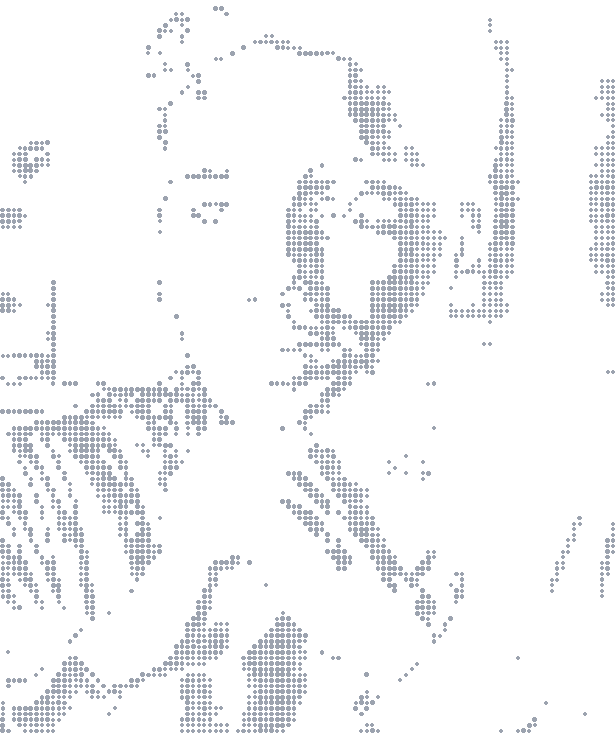
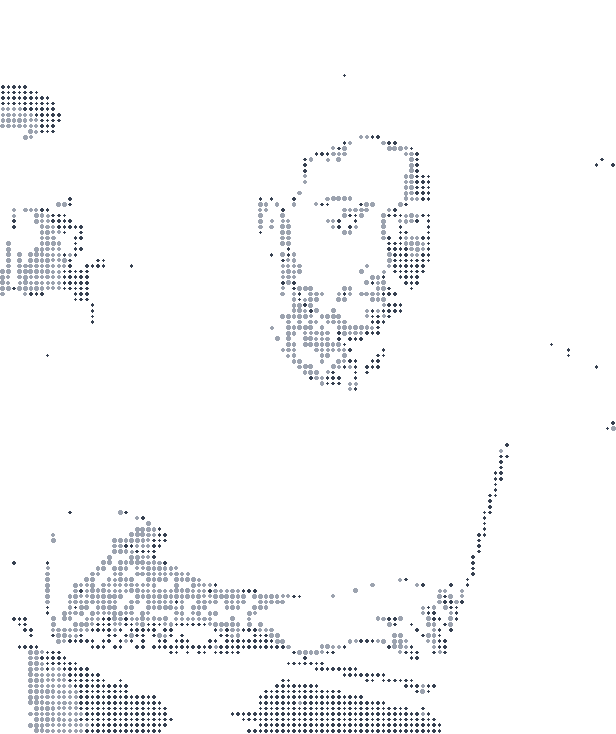
feat(portrait): the portrait loop clip, with a poster from its first frame (#15)
## What

- `public/portrait/portrait-loop.webm` (VP9, 16,558 bytes) and
`portrait-loop.mp4` (H.264, 13,599 bytes): the owner's loop clip,
encoded with `scripts/encode-portrait.sh` — grayscale, 220×262, 15 fps,
60 frames, no audio. No greeting clip yet; the renderer plays the loop
only.
- New poster (`src/assets/portrait/portrait.json`) and no-JS fallback
(`public/portrait/portrait-fallback.webp`, 5,922 bytes) from the loop's
first frame with the same crop, so the poster and the first video frame
match.
- `src/lib/portrait/config.ts`: tone `equalize: false, gamma: 1.4,
floor: 3`; face centre `0.59, 0.35`. The fallback image's
`object-position` follows the face.
- The hero caption drops "placeholder" by itself now that the clip
exists (`portrait.mp4 · dots`).
- `scripts/check-portrait.ts`: with the real clips in the build, the
default visit runs the video checks (requested after load, dots change,
pauses off-screen, no long task at CPU ×8); the poster-exact pointer
check runs under Save-Data, where no clip plays.

## Choices

- **Crop** `288,2,600,714` of the 1280×720 source: inside the square
picture (content x 280–1000, no pillarbox bars), at the poster's 110:131
aspect, keeping the head, beard and both hands with margin.
- **Tone**: autocontrast, gamma 1.4, floor 3. Equalize (the previous
setting) flattened the face into one bright patch in this darker scene;
without it eyes, nose, beard and mouth read in dots. No accessory in any
frame, so nothing is erased.
[…]

diff --git a/scripts/check-portrait.ts b/scripts/check-portrait.ts
@@ -8,6 +8,9 @@
 // Checks, EN and PT, one PASS or FAIL line each on stdout, exit 1 on any failure:
 //   - the canvas is shown and has dots drawn on it; the page scrolls no wider than the viewport (375 px)
 //   - no video is requested when the clips are absent, with reduced motion, or with Save-Data
+//   - when the build has the real clips (dist/portrait/portrait-loop.*), the default visit requests one after
+//     load, the dots change with it, it pauses off-screen, and no long task happens at CPU x8 (the same
+//     checks as the synthetic clips); the pointer check then runs with Save-Data, the poster-only path
 //   - no console error and no page error
 //   - without JavaScript the fallback image loads and the canvas takes no room
 //   - the pointer pushes dots away, and once it leaves the canvas shows the poster again, pixel for pixel
@@ -37,6 +40,8 @@ const flag = (name: string, fallback: string) => {
 const DIST = resolve(flag("--dist", "dist"));
 const JOBS = Math.max(1, Number(flag("--jobs", "4")) || 4);
 const WITH_CLIPS = argv.includes("--with-synthetic-clips");
+// The real clips, when the build carries them (scripts/encode-portrait.sh writes them to public/portrait/).
+const REAL_CLIPS = ["webm", "mp4"].some((x) => existsSync(join(DIST, "portrait", `portrait-loop.${x}`)));
 if (!existsSync(join(DIST, "index.html"))) {
   console.error(`check-portrait: ${DIST}/index.html not found; run npm run build first`);
   process.exit(2);
@@ -128,8 +133,8 @@ async function poster(browser: Browser, base: string, path: string, label: strin
   await s.close();
 }
 
-async function pointer(browser: Browser, base: string, path: string, label: string) {
-  const s = await open(browser, base + path);
+async function pointer(browser: Browser, base: string, path: string, label: string, o: Parameters<typeof open>[2] = {}) {
+  const s = await open(browser, base + path, o);
   await sleep(1500);
   const rest = await drawn(s.page);
   const face = await s.page.evaluate(() => {
@@ -224,12 +229,17 @@ try {
   servers.push(server);
   const tasks: Array<() => Promise<void>> = [];
   for (const [path, label] of [["/", "EN"], ["/pt/", "PT"]] as const) {
-    tasks.push(() => poster(browser, base, path, label, {}, "default"));
+    if (REAL_CLIPS) {
+      tasks.push(() => withClips(browser, base, path, `${label} real`));
+      tasks.push(() => clipTasks(browser, base, path, `${label} real`));
+    } else tasks.push(() => poster(browser, base, path, label, {}, "default"));
     tasks.push(() => poster(browser, base, path, label, { reducedMotion: "reduce" }, "reduced motion"));
     tasks.push(() => poster(browser, base, path, label, { saveData: true }, "Save-Data"));
     tasks.push(() => noJs(browser, base, path, label));
     tasks.push(() => narrow(browser, base, path, label));
-    tasks.push(() => pointer(browser, base, path, label));
+    // With the real clips the default visit plays the loop, so the poster-exact check runs where no clip
+    // plays and the pointer still moves dots: Save-Data (gating.ts).
+    tasks.push(() => (REAL_CLIPS ? pointer(browser, base, path, `${label} Save-Data`, { saveData: true }) : pointer(browser, base, path, label)));
   }
   if (WITH_CLIPS) {
     // Sequential by need: the clips must exist before the build that finds them, and the build before the checks.

diff --git a/src/lib/portrait/config.ts b/src/lib/portrait/config.ts
@@ -1,11 +1,12 @@
-// The site's portrait settings. The tone values are the ones that made src/assets/portrait/portrait.json
-// (personal-brand state.md, chosen poster parameters): portrait.py --crop 200,40,640,760 --cols 110
-// --erase 364,330,28,36 --erase 668,322,32,34 --erase 255,330,90,110 --equalize --gamma 1.9 --floor 5.
-// Video frames use the same tone so the poster and the first video frame match. When the clips are encoded,
-// the poster is remade from the loop's first frame (scripts/encode-portrait.sh) and these values must follow.
+// The site's portrait settings. The poster (src/assets/portrait/portrait.json) is the first frame of the loop
+// clip, made by scripts/encode-portrait.sh with the same crop as the clips (source box 288,2,600,714 of the
+// 1280x720 loop, inside its square picture) and this tone: portrait.py --crop 288,2,600,714 --cols 110
+// --gamma 1.4 --floor 3, autocontrast (no --equalize, which flattened the face into one bright patch in this
+// darker scene). No accessory is erased: the clip's frames show none. Video frames use the same tone so the
+// poster and the first video frame match; when the clips are encoded again these values must follow.
 import type { ToneOptions } from "./types.ts";
 
-export const tone: ToneOptions = { equalize: true, gamma: 1.9, floor: 5 };
+export const tone: ToneOptions = { equalize: false, gamma: 1.4, floor: 3 };
 
 /**
  * The intro (dots flying from the grid into the portrait) is off: in the hero it would run during page load,
@@ -16,7 +17,7 @@ export const tone: ToneOptions = { equalize: true, gamma: 1.9, floor: 5 };
 export const intro = false;
 
 /** Face centre as 0..1 of the poster, read off the poster preview (between the eyes and the mouth). */
-export const face = { x: 0.42, y: 0.33 };
+export const face = { x: 0.59, y: 0.35 };
 
 /** Where the clips and the no-JS fallback are served from, and their file names (encode-portrait.sh writes them). */
 export const publicDir = "portrait";

diff --git a/AGENTS.md b/AGENTS.md
@@ -44,7 +44,7 @@ The design and its decision records are kept locally by the owner, outside this 
 
 - vitest; tests live in `tests/`. Cover the data schemas, the sensitive-topics check, the generated `llms.txt`, JSON-LD and project cards, the MCP tools, the build checks (`check-images`, `check-dist`, the Lighthouse gate) and the pure portrait functions (`src/lib/portrait/`) whenever they change.
 - Images committed under `src/assets/` carry no EXIF, GPS, XMP or text metadata (`tests/images.test.ts`).
-- `npm run check:portrait` (Playwright) checks the built home pages: canvas drawn, no video request without clips, with reduced motion or Save-Data, no console errors, no-JS fallback, the pointer pushing dots and the poster coming back exactly; with `-- --with-synthetic-clips`, the video path and no long task while a clip plays at CPU x8. Run it after changing the portrait or the layout around it.
+- `npm run check:portrait` (Playwright) checks the built home pages: canvas drawn, no video request without clips, with reduced motion or Save-Data, no console errors, no-JS fallback, the pointer pushing dots and the poster coming back exactly; when the build carries the real clips (`public/portrait/portrait-loop.*`), the video path and no long task while the clip plays at CPU x8, with the pointer check run under Save-Data; `-- --with-synthetic-clips` adds the same video checks on synthetic clips (loop and greeting). Run it after changing the portrait or the layout around it.
 - Never commit a source photo or source video of the owner: only the dot grid, the fallback WebP and the encoded clips.
 
 ## Security
